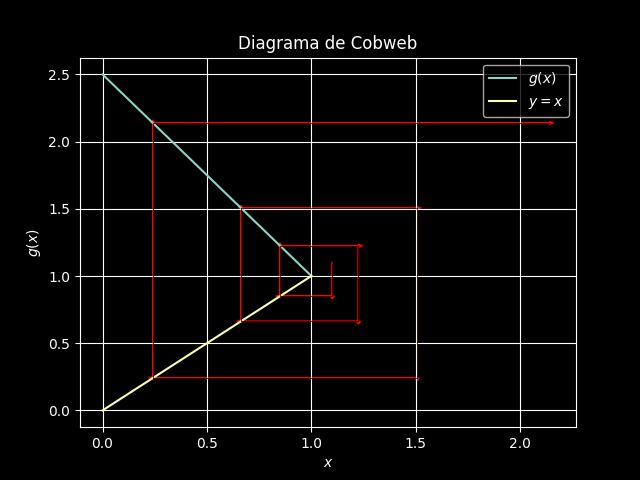
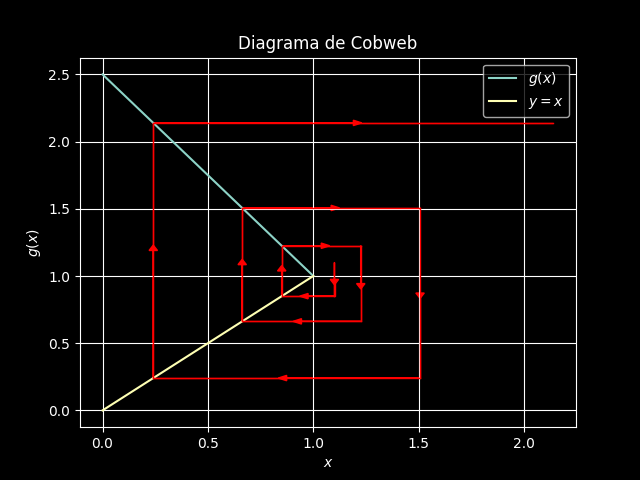
Finished theme 4 of the first module
- Finished the theme 4 of the first module
- Fixed some typos and redaction problems
- Improved the CobWeb diagram python file so the arrows now can be more noticeable
- Upgraded the 2 images of the 2 CobWeb diagrams in theme 4

diff --git a/Código Útil/Diagrama de Cobweb.py b/Código Útil/Diagrama de Cobweb.py
@@ -6,7 +6,7 @@ plt.style.use('dark_background')
 
 # Define la función iterativa g(x)
 def g(x):
-    return -(3/2) * x + (5/2)
+    return -(1/2) * x + (3/2)
 
 # Define la función identidad y=x
 def identity(x):
@@ -23,10 +23,12 @@ def cobweb_plot(f, x0, n):
     x_old = x0
     for i in range(n):
         x_new = f(x_old)
-        plt.plot([x_old, x_old], [x_old, x_new], 'k', lw=0.5)
-        plt.plot([x_old, x_new], [x_new, x_new], 'k', lw=0.5)
-        plt.arrow(x_old, x_old, 0, x_new - x_old, head_width=0.02, head_length=0.02, fc='r', ec='r')
-        plt.arrow(x_old, x_new, x_new - x_old, 0, head_width=0.02, head_length=0.02, fc='r', ec='r')
+        plt.plot([x_old, x_old], [x_old, x_new], 'r', lw=1)
+        plt.plot([x_old, x_new], [x_new, x_new], 'r', lw=1)
+        plt.arrow(x_old, x_old, 0, (x_new - x_old)/2, head_width=haw, head_length=hal, fc='r', ec='r')
+        plt.arrow(x_old, x_new, (x_new - x_old)/2, 0, head_width=haw, head_length=hal, fc='r', ec='r')
+        plt.arrow(x_old, x_new, 0, (x_old - x_new)/2, head_width=0, head_length=0, fc='r', ec='r')
+        plt.arrow(x_new, x_new, (x_old - x_new)/2, 0, head_width=0, head_length=0, fc='r', ec='r')
         x_old = x_new
 
     plt.xlabel('$x$')
@@ -37,7 +39,9 @@ def cobweb_plot(f, x0, n):
     plt.show()
 
 # Parámetros iniciales
-x0 = 1.1  # Cambia esto según el valor inicial que desees
+x0 = 2.7  # Cambia esto según el valor inicial que desees
 n = 6  # Número de iteraciones
+haw = 0.04 # Ancho de la cabeza de la flecha
+hal = 0.04 # Largo de la cabeza de la flecha
 
 cobweb_plot(g, x0, n)

diff --git a/Unidad 1/4- Raíces en 1D (Parte 2).md b/Unidad 1/4- Raíces en 1D (Parte 2).md
@@ -1,3 +1,8 @@
+---
+cssclasses:
+  - t-c
+---
+
 ## Método o Iteración de Punto Fijo
 
 Este método es uno de los más directos y a la vez versátiles a la hora de encontrar **puntos fijos** para una función (no confundir con una [[3- Raíces en 1D (Parte 1)#^a184d7|raíz]]), los cuales podremos usar para encontrar efectivamente las raíces que uno necesita obtener.
@@ -64,7 +69,7 @@ Es evidente que los valores de nuestra serie están divergiendo, y una interesan
 
 Y como se puede apreciar gracias a las pequeñas flechas de las esquinas del gráfico, efectivamente los valores están divergiendo de algún punto que buscamos.
 
-De paso les he adjuntado un código de Python para que puedan graficar las $g(x)$ con las $n$ iteraciones que gusten: [[Diagrama de Cobweb]]
+De paso les he adjuntado un código de Python para que puedan graficar las $g(x)$ con las $n$ iteraciones que gusten en la carpeta de código útil adjunto con este vault. 
 
 Visualicemos ahora un diagrama para una $g(x)$ que efectivamente converja. Tomemos:
 $$g(x) = -\frac{1}{2}x + \frac{3}{2}$$
@@ -75,20 +80,101 @@ x_1 = g_1(x_0) = 0.15 & x_8 = g_1(x_7) = 1.00664 & x_{15} = g_1(x_{14}) =  0.999
 x_2 = g_1(x_1) = 1.425 & x_9 = g_1(x_8) = 0.99668 & x_{16} = g_1(x_{15}) = 1.00003 \\ 
 x_3 = g_1(x_2) = 0.7875 & x_{10} = g_1(x_9) = 1.00166 & x_{17} = g_1(x_{16}) = 0.999987 \\ 
 x_4 = g_1(x_3) = 1.10625 & x_{11} = g_1(x_{10}) = 0.99917 & x_{18} = g_1(x_{17}) = 1.00001 \\ 
-x_5 = g_1(x_4) = 0.946875 & x_{12} = g_1(x_{11}) = 1.00042 & x_{19} = g_1(x_{18}) = 0,999997\\ 
-x_6 = g_1(x_5) = 1.02656 & x_{13} = g_1(x_{12}) = 0.999792 & x_{20} = g_1(x_{19}) = 1,0000 \end{array} $$
+x_5 = g_1(x_4) = 0.946875 & x_{12} = g_1(x_{11}) = 1.00042 & x_{19} = g_1(x_{18}) = 0.999997\\ 
+x_6 = g_1(x_5) = 1.02656 & x_{13} = g_1(x_{12}) = 0.999792 & x_{20} = g_1(x_{19}) = 1.0000 \end{array} $$
 Es evidente que en este caso hay una clara convergencia hacia 1. Para las primeras 6 iteraciones de este caso nuestro diagrama se ve así:
 
-![[Cobweb_2.png]]
+![[CobWeb_2.png]]
 
 ### Convergencia Lineal de Iteración de Punto Fijo
 Para poder analizar la convergencia de una iteración de punto fijo, es necesario introducir el **Teorema del valor medio**: *Sea $f$ una función continua en el intervalo \[$a$, $b$] y diferenciable en el intervalo ]$a$, $b$\[. Entonces existe un número $c$ entre $a$ y $b$ tal que:* 
-$$f´(c) = \frac{f(b) - f(a)}{b-a}$$
+$$f'(c) = \frac{f(b) - f(a)}{b-a}$$ ^63be27
 
-Ahora es necesario definir la convergencia lineal de forma matemática: *Sea $e_i = |x_i - r|$ el error absoluto del paso $i$ de un método iterativo. Si se cumple:*
+Ahora es necesario definir la **convergencia lineal** de forma matemática: *Sea $e_i = |x_i - r|$ el error absoluto del paso $i$ de un método iterativo. Si se cumple:*
 $$\lim\limits_{i\to\infty}\frac{e_{i+1}}{e_i} = S < 1$$
-*Se dice entonces que el método obedece "convergencia lineal" con tasa S*.
+*Se dice entonces que el método obedece "convergencia lineal" con tasa S*. ^f07d7d
 
 Finalmente, gracias a este teorema, definición y [[Apuntes_INF-285_2024-v0613.pdf#search=Demostración. Sea xi el i -ésimo termino de la iteración|esta demostración]] podemos concluir lo siguiente con respecto a este algoritmo que si asumimos que hay una función $g(x)$ que nosotros hayamos encontrado y que sea continua y diferenciable, que tiene un punto fijo $g(r) = r$ y que además $S = |g´(r)| < 1$, entonces la iteración de punto fijo converge linealmente con tasa $S$ al punto fijo $r$ para ciertos *"initial guesses"* que estén lo suficientemente cerca de r. Es decir, para que el algoritmo funcione lo suficientemente bien, y si es que la serie $x_i$ no termina divergiendo, entonces necesitaríamos estimar un *initial guess* adecuado para que el algoritmo otorgue resultados positivos.
 
-### Teoremas y Definiciones Útiles
+## Teoremas y Definiciones Útiles
+
+En esta sección se van a mencionar algunos teoremas que se van a usar en algunos puntos en el futuro.
+
+Primero partiré definiendo de manera más precisa el concepto de convergencia local el cual ya me he referido anteriormente. *Un método iterativo es llamado localmente convergente a $r$ si el método converge a $r$ para "initial guesses" lo suficientemente cercanos a $r$*. Esta definición nos dice que de existir una vecindad ($r - \epsilon$, $r + \epsilon$) para $\epsilon > 0$ de tal forma que al escoger algún "*initial guess*" o $x_0$ que pertenezca a esta misma vecindad se genere una convergencia, entonces decimos que ese método converge localmente hacia la raíz de $r$.
+
+Luego tenemos al **Teorema del valor intermedio** (no confundir con el Teorema del [[4- Raíces en 1D (Parte 2)#^63be27|valor medio]]): *Sea $f$ una función continua en un intervalo \[$a$, $b$], entonces $f$ recorre cada valor entre $f(a)$ y $f(b)$, lo que implica que debe existir un número $c \in$ \[$a$, $b$] tal que $f(c) = y$*.
+
+Después viene el **Teorema de Rolle**: *Sea $f$ una función continua y diferenciable en un intervalo \[$a$, $b$] y asumiendo que $f(a) = f(b)$, entonces sabemos que existe un punto $c$ tal que $f´(c) = 0$*. 
+
+Y finalmente terminamos con posiblemente uno de los teoremas más importantes de este curso, el **Teorema de Taylor**: *Sea $x$ y $x_0$ números reales, y $f(x)\ k+1$ veces continuamente diferenciable en el intervalo entre $x$ y $x_0$, entonces existe un número $c$ tal que:* 
+$$f(x) = f(x_0) + f'(x_0)(x-x_0) + \frac{f''(x_0)}{2!}(x-x_0)^2 + \cdots + \frac{f^k(x_0)}{k!}(x-x_0)^k + \frac{f^{k+1}(c)}{(k+1=!}(x-x_0)^{k+1}$$
+Cabe destacar que este teorema es valido para cada triada de ($x$, $x_0$, $c$), de forma que si llegara a cambiar alguno de estos 3 valores para una misma función $f$, entonces lo más probable es que los otros 2 valores también terminen cambiando sus resultados finales. ^f6fed6
+
+## Método de Newton-Raphson
+
+El [[4- Raíces en 1D (Parte 2)#^f6fed6|Teorema de Taylor]] nos indica la siguiente afirmación al considerar los primeros 3 términos de la expansión para una función $f(x)$:
+$$f(x) = f(x_0) + f'(x_0)(x-x_0) + \frac{f''(c)}{2!}(x-x_0)^2$$
+Supongamos ahora que estamos interesados en obtener una [[3- Raíces en 1D (Parte 1)#^a184d7|raíz]] de la función $f(x)$ la cual vamos a llamar $r$:
+$$f(r) = f(x_0) + f'(x_0)(r-x_0) + \frac{f''(c)}{2!}(r-x_0)^2$$
+Gracias a que $r$ es una raíz de $f(x)$, entonces sabemos que $f(r) = 0$:
+$$0 = f(x_0) + f'(x_0)(r-x_0) + \frac{f''(c)}{2!}(r-x_0)^2$$
+Despejando el $r$ ubicado en el término lineal:
+$$\begin{align}
+-f'(x_0)(r-x_0) =&\ f(x_0) + \frac{f''(c)}{2!}(r-x_0)^2 \\
+r-x_0 =&\ -(f'(x_0))^{-1}f(x_0) -(f'(x_0))^{-1}\frac{f''(c)}{2!}(r-x_0)^2 \\
+r=&\ x_0 - \frac{f(x_0)}{f'(x_0)} - \frac{\frac{f''(c)}{2}(r-x_0)^2}{f'(x_0)} 
+\end{align}$$
+Ahora, aunque nosotros acabamos de obtener un valor exacto para obtener la raíz $r$, esta sigue dependiendo del valor de $f''(c)$ el cual desconocemos, es por eso que vamos a trabajar esta ecuación bajo el supuesto de que $(r-x_0)^2$ es un número lo suficientemente pequeño como para "despreciar" todo el valor que se está restando en esta expresión (cosa que se aplica sí y solo si $|r-x_0|<1$), por lo que nosotros seremos capaces de obtener una raíz aproximada de $r$ la que denominaremos $x_1$ transformando la expresión anterior de la siguiente forma:
+$$x_1 = x_0 - \frac{f(x_0)}{f'(x_0)}$$
+Expresión que si generalizamos para una i-ésima iteración, obtenemos:
+$$x_{i+1} = x_i - \frac{f(x_i)}{f'(x_i)} :=g_N(x_i)$$
+Donde $g_N(x_i)$ corresponde a la función de Newton-Raphson para el término $x_i$. Cabe recalcar que para que este método sea efectivo necesitamos tomar un $x_0$ o *"initial guess"* lo suficientemente cercano a $r$ para cumplir el ya mencionado supuesto que se debía cumplir de $|r-x_0|<1$.
+
+En pocas palabra, el algoritmo nos queda de la siguiente forma:
+
+```markdown
+x_0 = "Initial Guess"
+for i in range(n):
+    x_{i+1} = x_i - f(x_i)/f'(x_i)
+```
+
+Tomemos como ejemplo ahora la función $f(x) = x^3+x-1$, donde tenemos que $f'(x) = 3x^2 + 1$. Al construir la iteración de punto fijo de Newton obtenemos lo siguiente:
+$$\begin{align}
+x_{i+1} =&\ x_i - \frac{f(x_i)}{f'(x_i)} \\
+x_{i+1} =&\ x_i - \frac{x_i^3 + x_i - 1}{3x^2 + 1} \\
+x_{i+1} =&\ \frac{2x_i^3 + 1}{3x^2 + 1} := g_N(x_i)\\
+\end{align}$$
+Aplicando este método para un *"initial guess"* de -0.7, tenemos que este algoritmo nos devuelve los siguientes valores para las primeras 7 iteraciones:
+
+| $i$ |    $x_i$     |    $e_i$     | $\frac{e_i}{e_{i-1}^2}$ |
+| :-: | :----------: | :----------: | :---------------------: |
+| $0$ |    $-0.7$    |    $1.38$    |            -            |
+| $1$ |    $0.12$    |    $0.55$    |        $0.2906$         |
+| $2$ |    $0.95$    |    $0.27$    |        $0.8933$         |
+| $3$ |    $0.73$    |   $0.052$    |        $0.6924$         |
+| $4$ |   $0.6845$   |   $0.0022$   |        $0.8214$         |
+| $5$ |  $0.682332$  | $0.00000437$ |        $0.8527$         |
+| $6$ | $0.68232780$ | $0.00000000$ |        $0.8541$         |
+| $7$ | $0.68232780$ | $0.00000000$ |           ---           |
+
+Donde gracias a los valores de $\frac{e_i}{e_{i-1}^2}$ podemos decir que efectivamente se logró obtener una [[4- Raíces en 1D (Parte 2)#^f07d7d|convergencia lineal]].
+
+### Convergencia Cuadrática del Método de Newton
+Antes de explicar como y cuando este método converge de forma cuadrática es necesario introducir el concepto de **convergencia cuadrática**: *Sea $e_i$ el error de la iteración i-ésima de un método iterativo. La iteración converge cuadráticamente si:*
+$$\lim\limits_{i\to\infty}\frac{e_{i+1}}{e_i^2} = M < \infty$$
+En pocas palabras, esto quiere decir que para todas las iteraciones posibles en un método iterativo la razón entre el error del siguiente término con su error actual al cuadrado deben aproximarse a una constante que sea finita $M$ para poder decir que esta efectivamente está convergiendo de forma cuadrática. Cabe recalcar además que una convergencia de tipo cuadrática converge más rápido que una de tipo [[4- Raíces en 1D (Parte 2)#^f07d7d|lineal]], lo que implica además que permiten encontrar la raíz más rápido de lo normal.
+
+Ahora, la convergencia cuadrática de este método se explica con el siguiente teorema: *Sea $f(x)$ una función dos veces continuamente diferenciable y $f(r) = 0$. Si $f'(r)\neq 0$, entonces el método de Newton es local y cuadráticamente convergente a $r$. El error $e_i$ en el paso $i$ satisface lo siguiente:*
+$$\lim\limits_{i\to\infty}\frac{e_{i+1}}{e_i^2} = M,$$
+*donde el valor de $M$ para este método corresponde a:*
+$$M = \frac{|f''(r)|}{2|f'(r)|}$$
+He de recalcar nuevamente que el método de Newton-Raphson solamente converge de forma cuadrática en situaciones donde $f'(r) \neq 0$. Para el lector más enfrascado en la teoría matemática y que le interesa saber porqué este método converge bastante rápido dada esta condición de $f$, entonces son bienvenidos a revisar los apuntes de profesor con la [[Apuntes_INF-285_2024-v0613.pdf#search=Demostración. La demostración contienen 2 componentes: (i) Demostrar que converge localmente y (ii) demostrar que converge cuadráticamente.|demostración]].
+
+### Convergencia Lineal del Método de Newton
+Por supuesto, como estarán intuyendo del párrafo anterior, Newton Raphson converge de forma [[4- Raíces en 1D (Parte 2)#^f07d7d|lineal]] siempre y cuando $f'(r) \neq 0$. Asumamos que $r$ es una [[3- Raíces en 1D (Parte 1)#^a184d7|raíz]] de $f$ y que esta función es además diferenciable. Entonces si $0 = f(r) = f'(r) = \cdots = f^{(m-1)}(r)$, pero $f^{(m)}(r) \neq 0$, entonces decimos que la raíz $r$ posee multiplicidad $m$. Además, si es que se llega a dar el caso de que $m > 1$ entonces la función $f$ posee una raíz múltiple, caso contrario ($m = 1$) $f$ solo posee una raíz simple.
+
+Con esto explicado, podemos introducir el siguiente teorema de convergencia lineal del Teorema: *Asumiendo que $f$ es una función ($m + 1$) - veces continua, diferenciable en \[a, b] y tiene una multiplicidad $m$ en la raíz $r$. Entonces el método de Newton es linealmente convergente a $r$ con tasa $S$:*
+$$\lim\limits_{i\to\infty}\frac{e_{i+1}}{e_i} = \frac{m-1}{m} = S \neq 0$$
+Y por supuesto, gracias a este teorema es que tenemos la oportunidad de además estudiar la multiplicidad de la raíz que nosotros estamos buscando, idea la cual podemos aplicar realizando una pequeña modificación al Método de Newton: *Si $f$ es ($m + 1$) - veces continua y diferenciable en \[a, b], donde hay una raíz $r$ de multiplicidad $m > 1$, entonces el método de Newton modificado:*
+$$x_{i+1} = x_i - m\frac{f(x_i)}{f'(x_i)}$$
+*converge local y cuadráticamente a $r$*.
